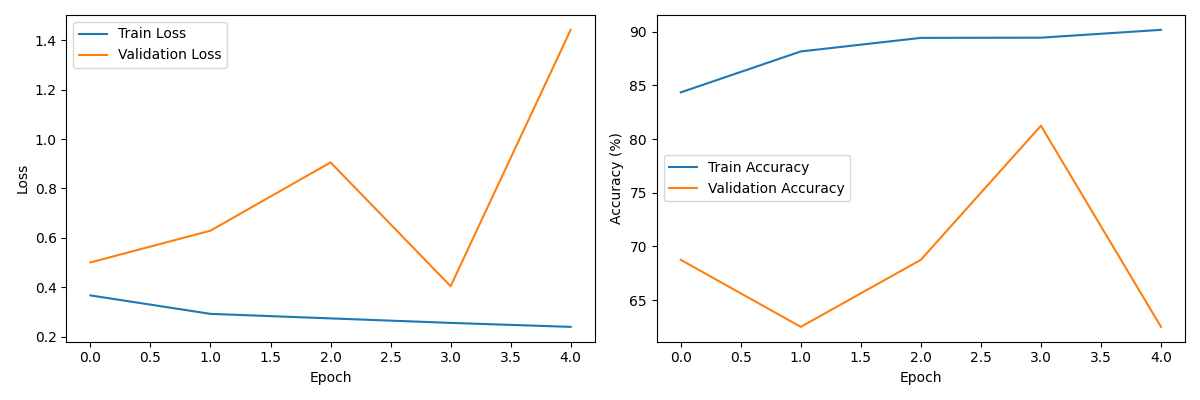
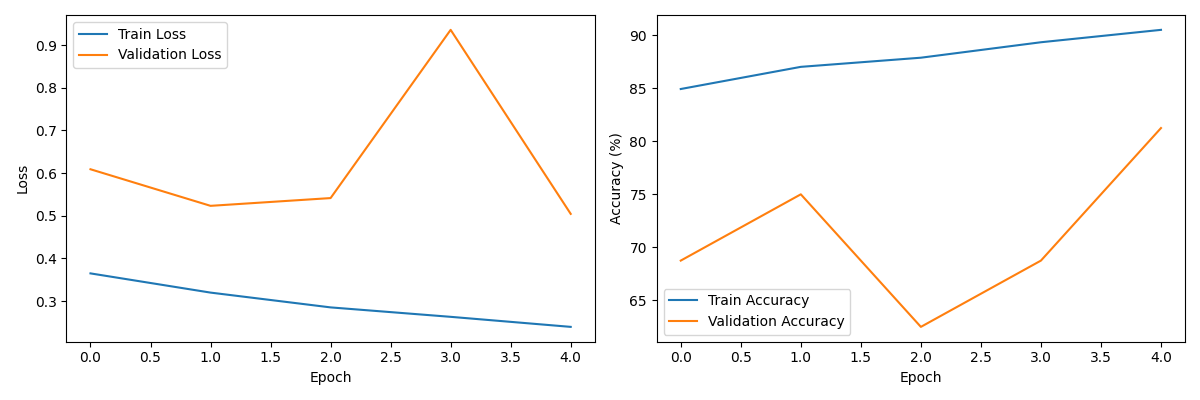
Added more visualizations

diff --git a/train_model.py b/train_model.py
@@ -22,6 +22,8 @@ from sklearn.metrics import classification_report, confusion_matrix, roc_curve, 
 import matplotlib.pyplot as plt
 import seaborn as sns
 from torch.multiprocessing import freeze_support
+from PIL import Image
+import random
 
 def plot_additional_metrics(model, test_loader, device):
     model.eval()
@@ -77,6 +79,48 @@ def plot_additional_metrics(model, test_loader, device):
     for i, count in enumerate(class_counts):
         plt.text(i, count, str(count), ha='center', va='bottom')
     plt.savefig('class_distribution.png')
+    plt.close()
+
+def visualize_predictions(model, test_dataset, device, num_images=5):
+    model.eval()
+    
+    # Get random indices for visualization
+    indices = random.sample(range(len(test_dataset)), num_images)
+    
+    plt.figure(figsize=(15, 3*num_images))
+    for idx, i in enumerate(indices):
+        # Get image and label
+        image, true_label = test_dataset[i]
+        
+        # Get prediction
+        with torch.no_grad():
+            image = image.unsqueeze(0).to(device)  # Add batch dimension
+            outputs = model(image)
+            probs = torch.softmax(outputs, dim=1)
+            pred_label = outputs.argmax(dim=1).item()
+            confidence = probs[0][pred_label].item()
+        
+        # Convert image back to numpy for plotting
+        img = image.squeeze(0).cpu().numpy()
+        img = np.transpose(img, (1, 2, 0))  # Convert from CxHxW to HxWxC
+        # Denormalize
+        mean = np.array([0.485, 0.456, 0.406])
+        std = np.array([0.229, 0.224, 0.225])
+        img = std * img + mean
+        img = np.clip(img, 0, 1)
+        
+        # Plot
+        plt.subplot(num_images, 1, idx + 1)
+        plt.imshow(img)
+        true_class = test_dataset.classes[true_label]
+        pred_class = test_dataset.classes[pred_label]
+        color = 'green' if true_label == pred_label else 'red'
+        plt.title(f'True: {true_class} | Predicted: {pred_class} (Confidence: {confidence:.2%})', 
+                 color=color)
+        plt.axis('off')
+    
+    plt.tight_layout()
+    plt.savefig('prediction_examples.png', bbox_inches='tight', dpi=300)
     plt.close()
 
 def main():
@@ -262,6 +306,11 @@ def main():
     print("\nGenerating additional performance plots...")
     plot_additional_metrics(model, test_loader, device)
     print("Additional plots saved: roc_curve.png, precision_recall_curve.png, class_distribution.png")
+
+    # After generating other plots, add:
+    print("\nGenerating prediction visualizations...")
+    visualize_predictions(model, test_dataset, device)
+    print("Prediction examples saved as 'prediction_examples.png'")
 
 if __name__ == '__main__':
     freeze_support()
